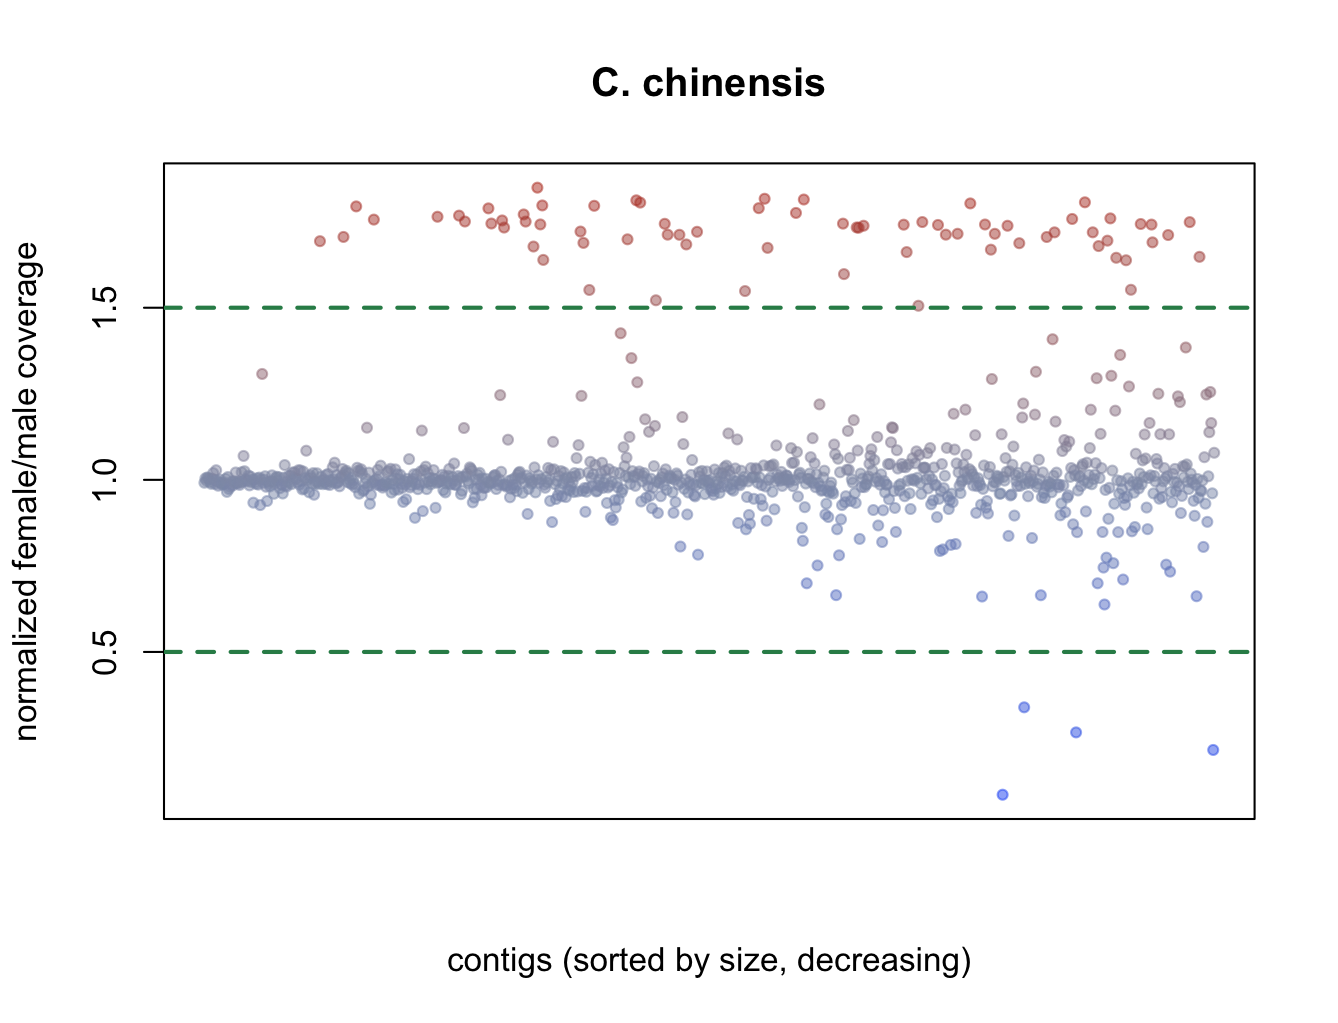
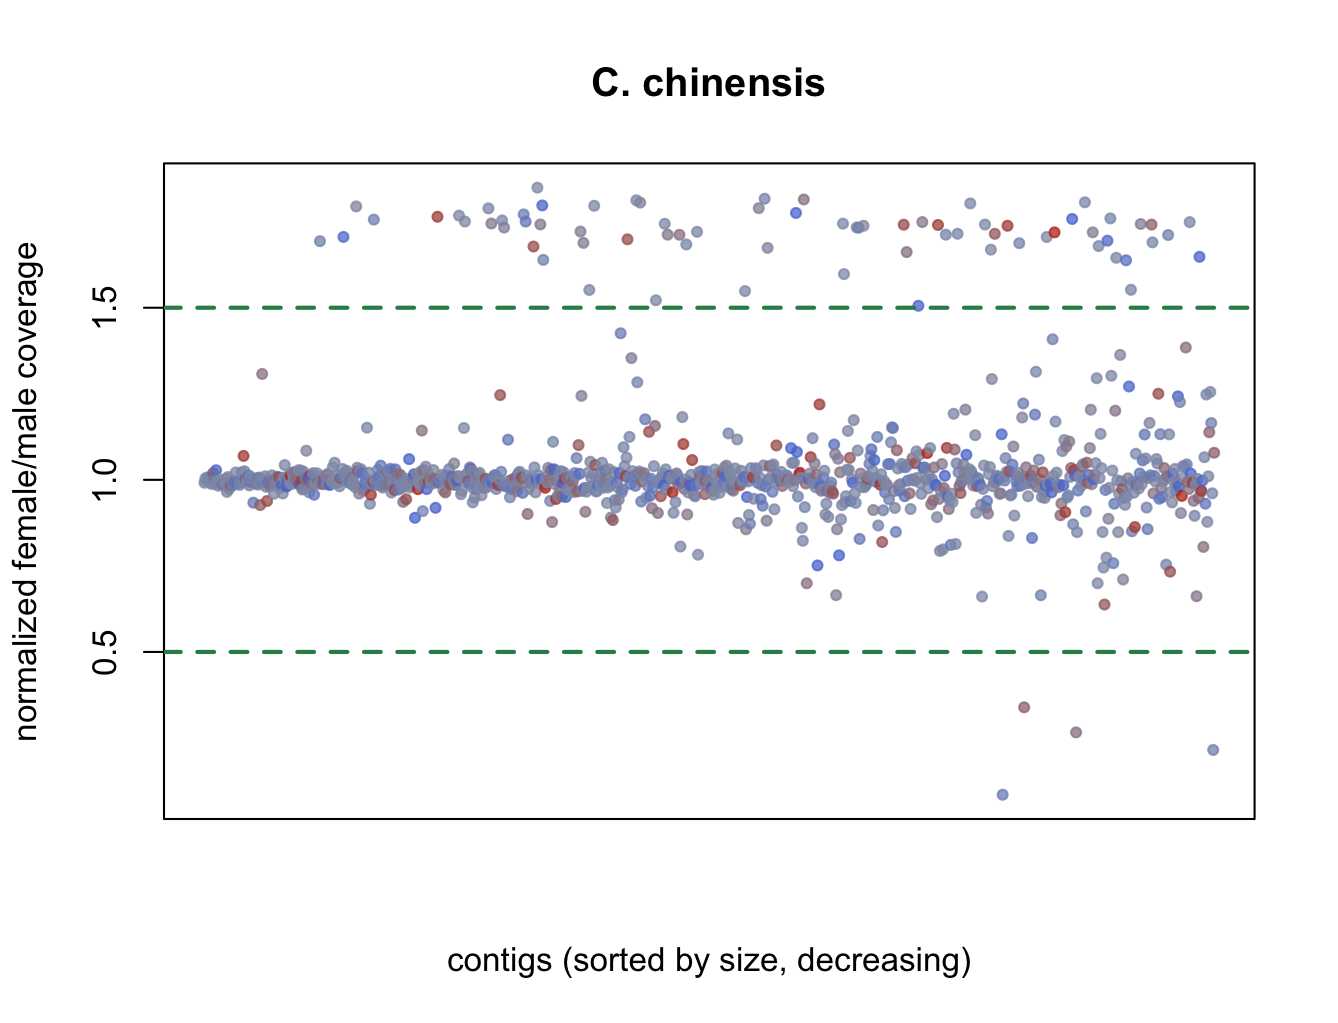
plot update

diff --git a/index.html b/index.html
@@ -239,7 +239,8 @@ obtectus/obtectus/Sample_VA-3193-LEfixed_M.sort.MarkDup.RG.filter.bam.idxstats</
         </p>
     </div>
     <div style="clear: both;"></div>
-    <p style="padding-top: 1em;"><b>Results:</b></p>
+    <p style="padding-top: 1em;"><b>Results:</b><br>
+    (Not multiple-testing corrected, min. scaffold length threshold set to 1e5.)</p>
     <div class="left-div">
         <p float="left">
             <img loading="lazy" src="data/SATC/contig_coverage_sex_ratio_obtectus.png" width="100%" />
@@ -279,7 +280,8 @@ coleoptera_samples/chinensis-M3new_ref.bam.idxstats </code></pre>
         <img loading="lazy" src="data/SATC/sexing_PCA_chinensis_all_samples.png" width="35%" />
     </p>
 
-    <p style="padding-top: 1em;"><b>Results:</b></p>
+    <p style="padding-top: 1em;"><b>Results:</b><br>
+    (Not multiple-testing corrected, min. scaffold length threshold set to 1e5.)</p>
     <div class="left-div">
         <p float="left">
             <img loading="lazy" src="data/SATC/contig_coverage_sex_ratio_chinensis.png" width="100%" />
